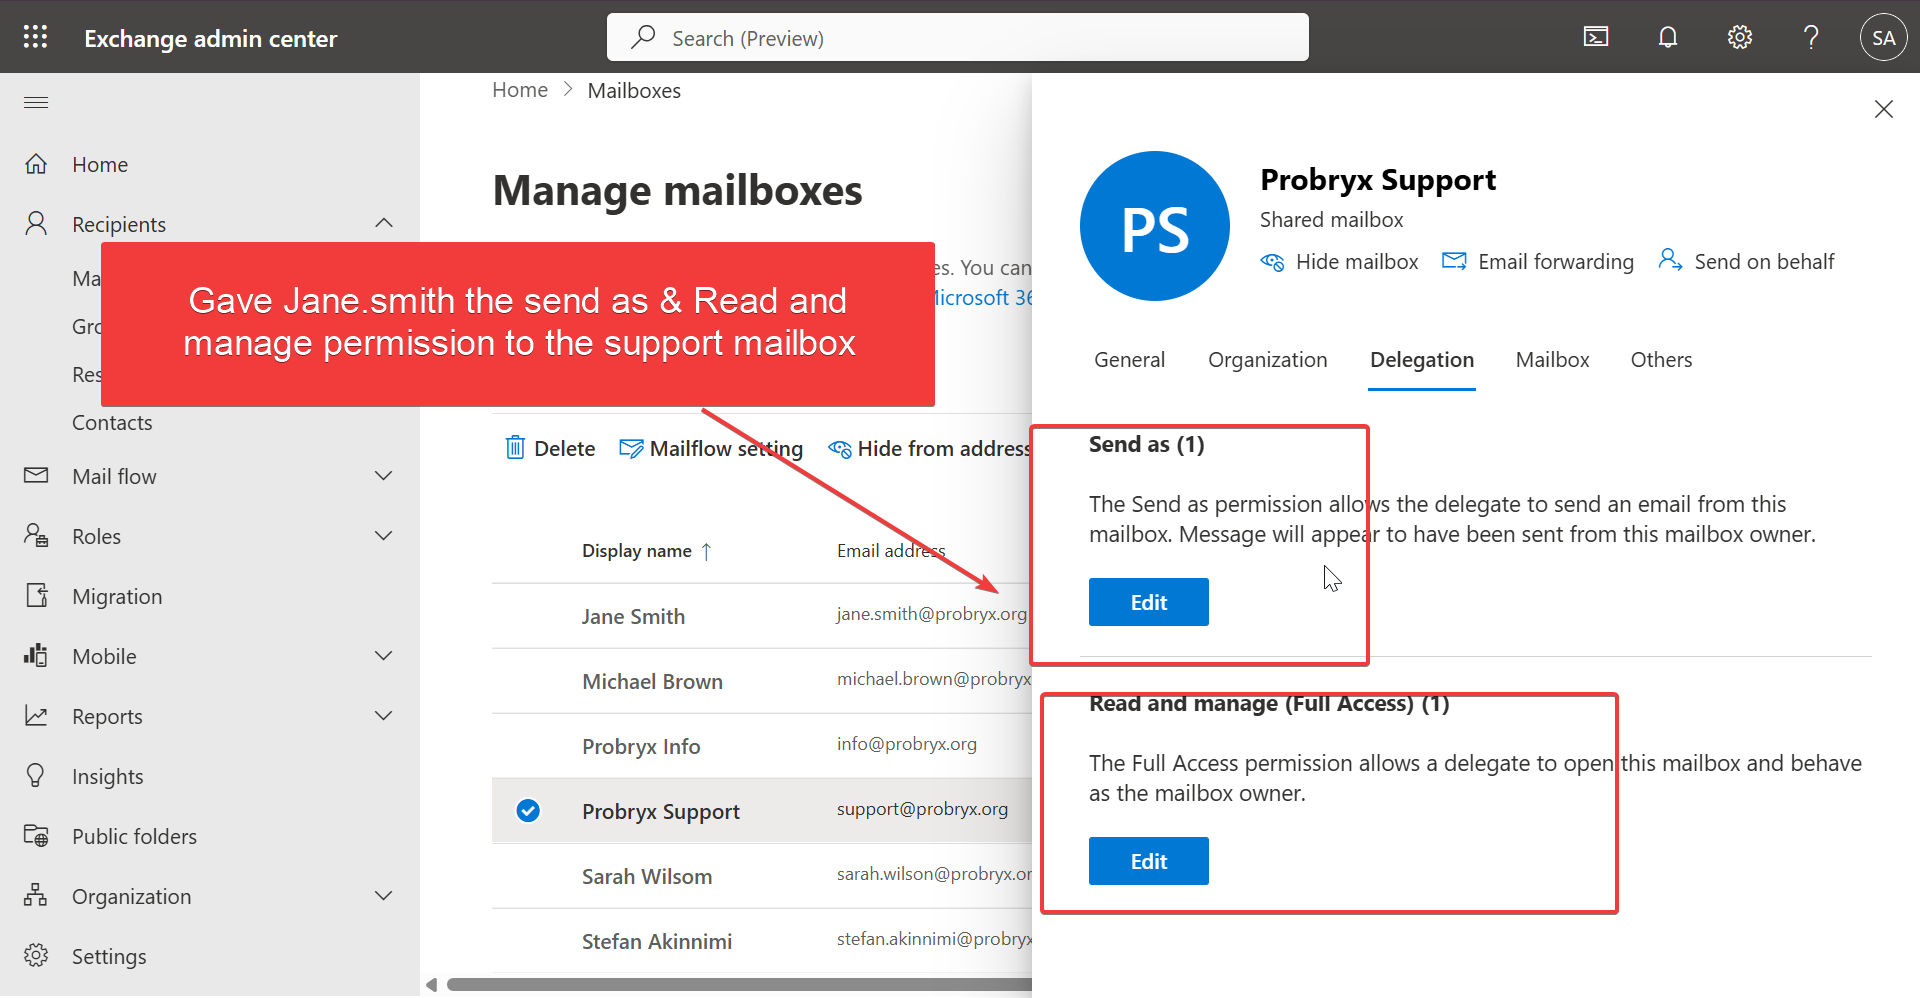
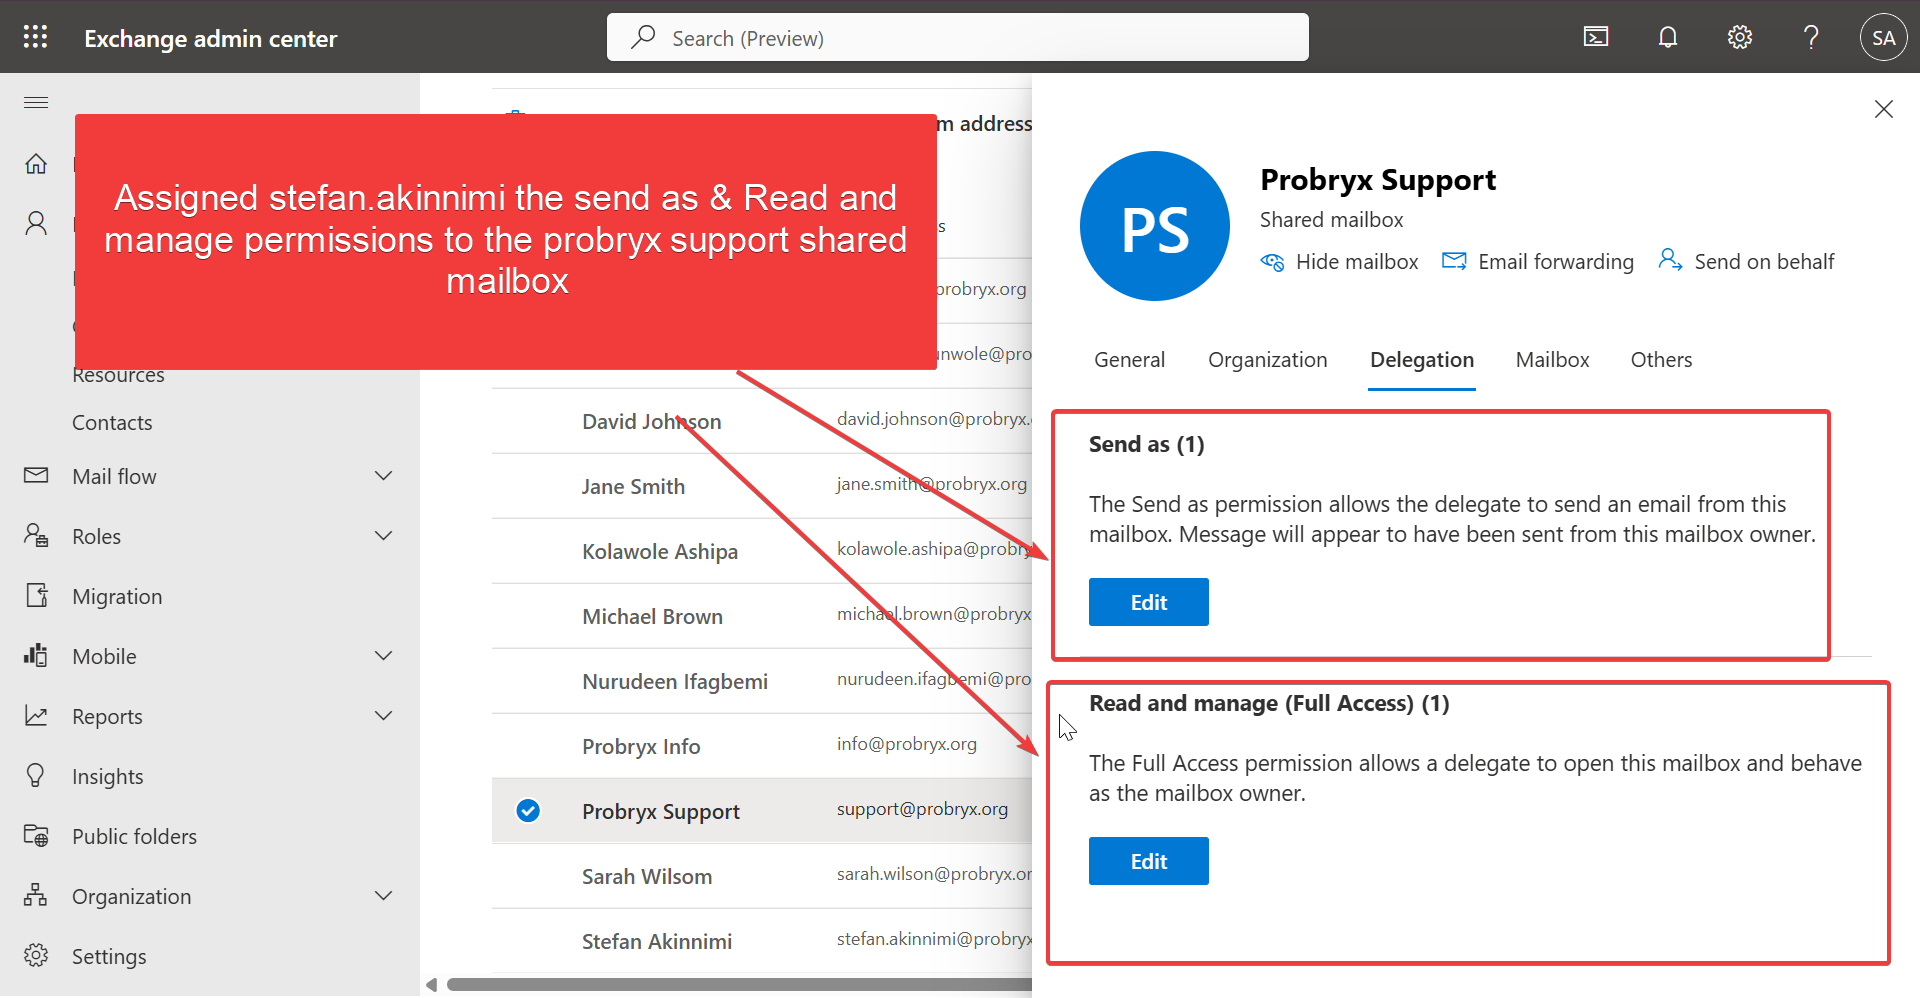
Add Microsoft 365 Automation documentation with sections for Identity, Exchange Online, Teams, SharePoint, Licensing, and Administration

diff --git a/docs/04-identity/Identity-Groups.md b/docs/04-identity/Identity-Groups.md
@@ -71,7 +71,7 @@ SG-IT
 SG-HR
 SG-FINANCE
 SG-SALES
-SG-MANAGEMENT
+SG-EXECUTIVE
 ```
 
 ---
@@ -79,10 +79,12 @@ SG-MANAGEMENT
 ## Microsoft 365 Groups
 
 ```
+M365-EXECUTIVE
 M365-IT
 M365-HR
 M365-FINANCE
 M365-SALES
+M365-Probryx
 ```
 
 ---
@@ -94,6 +96,9 @@ DL-AllStaff
 DL-Management
 DL-HR
 DL-IT
+DL-FINANCE
+DL-SALES
+DL-OPERATIONS
 ```
 
 ---
@@ -163,9 +168,10 @@ Assign users to the appropriate departmental Security Groups.
 
 Example:
 
-- John Doe → SG-IT
+- Stefan Akinnimi → SG-IT
 - Jane Smith → SG-HR
-- David Wilson → SG-FINANCE
+- Sarah Wilson → SG-SALES
+
 
 ### Technical Explanation
 
@@ -204,6 +210,7 @@ Microsoft 365 Groups automatically provide shared resources including Outlook, T
 ### Screenshot
 
 ![](../../screenshots/identity/Identity-Groups/03-m365-groups-created.png)
+
 
 ---
 
@@ -296,9 +303,16 @@ Shared mailboxes allow multiple users to manage a common mailbox without requiri
 
 ### Assign members to the shared mailbox
 
-Gave Jane.smith the permission to support@probryx.org shared mailbox
+Assigned stefan.akinnimi the support@probryx.org shared mailbox
 
 ![](../../screenshots/identity/Identity-Groups/06-shared-mailboxes-01.png)
+
+
+Assigned Jane.smith the permission to hr@probryx.org shared mailbox
+
+![](../../screenshots/identity/Identity-Groups/06-shared-mailboxes-02.png)
+
+
 
 ---
 
@@ -319,7 +333,13 @@ Reviewing group membership helps ensure users receive the correct level of acces
 
 ### Screenshot
 
-![](../../screenshots/identity/groups/07-group-membership-review.png)
+Removed M365-HR group owner access from Stefan & Micheal 
+
+![](../../screenshots/identity/Identity-Groups/07-group-membership-review.png)
+
+Added the HR manager as the owner of the M365-HR Group
+
+![](../../screenshots/identity/Identity-Groups/07-group-membership-review-1.png)
 
 ---
 
@@ -350,11 +370,7 @@ Users were successfully assigned to their departmental Security Groups.
 
 ### Screenshot
 
-```text
-../../screenshots/identity/groups/validation/security-group-membership.png
-```
-
-![](../../screenshots/identity/groups/validation/security-group-membership.png)
+![](../../screenshots/identity/Identity-Groups/validation-security-group-membership.png)
 
 ---
 
@@ -370,11 +386,7 @@ The group was provisioned with the associated Microsoft 365 resources, including
 
 ### Screenshot
 
-```text
-../../screenshots/identity/groups/validation/m365-group-validation.png
-```
-
-![](../../screenshots/identity/groups/validation/m365-group-validation.png)
+![](../../screenshots/identity/Identity-Groups/validation-m365-group.png)
 
 ---
 
@@ -390,11 +402,11 @@ The Distribution List was successfully created and is available for organization
 
 ### Screenshot
 
-```text
-../../screenshots/identity/groups/validation/distribution-list-validation.png
-```
+Sent a welcome from the HR manager account (Jane Smith) to all users using the dl-allstaff@probryx.org distribution mailbox
 
-![](../../screenshots/identity/groups/validation/distribution-list-validation.png)
+![](../../screenshots/identity/Identity-Groups/distribution-list-validation.png)
+
+![](../../screenshots/identity/Identity-Groups/distribution-list-validation-1.png)
 
 ---
 
@@ -410,11 +422,7 @@ Assigned users successfully accessed the shared mailbox and were able to send an
 
 ### Screenshot
 
-```text
-../../screenshots/identity/groups/validation/shared-mailbox-validation.png
-```
-
-![](../../screenshots/identity/groups/validation/shared-mailbox-validation.png)
+![](../../screenshots/identity/Identity-Groups/shared-mailbox-validation.png)
 
 ---
 
@@ -437,6 +445,7 @@ Assigned users successfully accessed the shared mailbox and were able to send an
 | User not visible in group | Replication delay | Allow time for Microsoft 365 synchronization |
 | Shared mailbox inaccessible | Missing permissions | Assign Full Access and Send As permissions |
 | Distribution List not receiving mail | Membership configuration | Verify recipients and mail flow settings |
+| Cant edit distribution mailbox details | Some groups can't be managed in the Azure portal | Used the M365 admin portal to edit a DL mailbox
 
 ---
 
@@ -467,6 +476,12 @@ The deployment demonstrates enterprise best practices by applying standardized n
 
 ---
 
+# Change Log
+|Version|Date|Author|
+|---|---|---|
+|1.0|2026-08-02|Stefan Akinnimi|
+
+---
 ## Next Phase
 
 ➡ **Identity Architecture**

diff --git a/docs/04-identity/Identity-Management.md b/docs/04-identity/Identity-Management.md
@@ -77,11 +77,14 @@ Identity → Users → New user
 Created users for every department.
 
 users created:
+- Kolawole Ashipa (CEO - Global Administrator)
+- Damilola Ogunwole (COO)
+- Nurudeen ifagbemi (Associate Director)
 - Stefan Akinnimi (IT Administrator - Global Administrator)
 - Jane Smith (HR Manager)
-- David Johnson (Finance)
-- Sarah Wilson (Sales)
-- Michael Brown (Operations)
+- David Johnson (Finance Manager)
+- Sarah Wilson (Sales Manager)
+- Michael Brown (Operations Manager)
 
 Screenshot:
 ![](../../Screenshots/identity/Identity-Management/02-create-users.png)
@@ -279,7 +282,7 @@ Verify that a User Administrator can successfully create a new user account.
 ![](../../Screenshots/identity/Identity-Management/10-validation-jane-smith-entra-role.png)
 
 2. Navigated to **Microsoft Entra Admin Center** → **Identity** → **Users**.
-3. Selected **New User (Bob Philip)**.
+3. Selected **New User (Bob Philip - HR Officer)**.
 4. Created a test user account.
 
 **Expected Result**

diff --git a/docs/14-Enterprise-M365-PowerShell.md b/docs/14-Enterprise-M365-PowerShell.md
@@ -1,0 +1,51 @@
+# Microsoft 365 Automation
+
+## Identity
+
+- Create User
+- Update User
+- Delete User
+- Reset Password
+- Assign License
+- Create Security Group
+- Create M365 Group
+- Distribution Lists
+- Shared Mailboxes
+
+---
+
+## Exchange Online
+
+- Create Mailbox
+- Mailbox Permissions
+- Mail Flow Rules
+
+---
+
+## Teams
+
+- Create Team
+- Add Members
+- Create Channels
+
+---
+
+## SharePoint
+
+- Create Site
+- Permissions
+
+---
+
+## Licensing
+
+- Assign License
+- Remove License
+
+---
+
+## Administration
+
+- Reports
+- Export Users
+- Audit Logs
